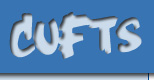
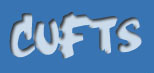
Changed how the side menu and header were styled to allow for letting it grow large enough to handle new navigation items

diff --git a/MaintTool/root/static/css/general.css b/MaintTool/root/static/css/general.css
@@ -581,17 +581,16 @@ div#page-header {
     margin: 0px;
     padding: 0px;
     float: left;
+    background: #3874b3;
+    border-bottom: 1px solid #004997;
+    width: 100%;
 }
 
 img#page-header-main-image {
     float: left;
     border: none;
-    padding: 0px;
-    
-    /* IE hack, Firefox uses !important, IE uses the second width */
-    
-    margin-left: 0px !important;
-    margin-left: -3px;
+    padding: 0;
+    margin: 0;
 }
 
 div#page-layout {
@@ -616,6 +615,14 @@ div#navigation-main {
     font: normal 12px Verdana, sans-serif;
     border: none;
     width: 149px;
+
+    background: #D0DEED;
+    border-right: 1px solid #004997;
+    border-bottom: 1px solid #004997;
+
+    -webkit-border-bottom-right-radius: 15px;
+    -moz-border-radius-bottomright: 15px;
+    border-bottom-right-radius: 15px;
 }
 
 div#navigation-main ul {
